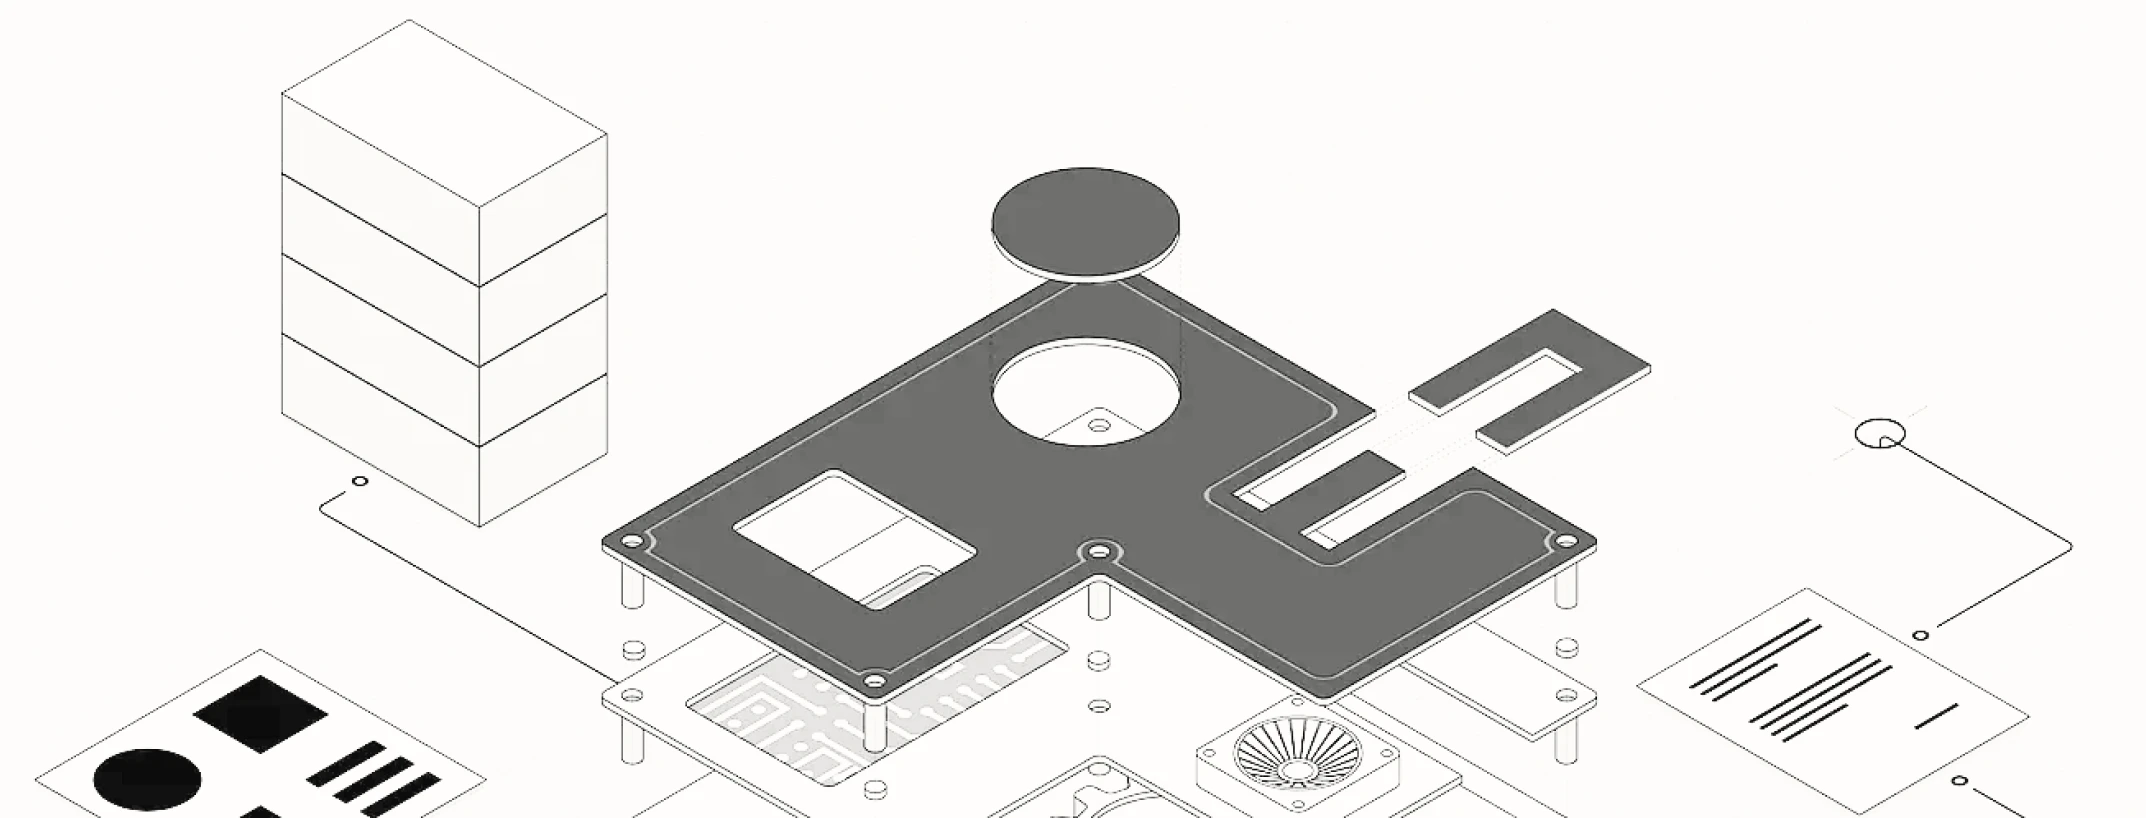
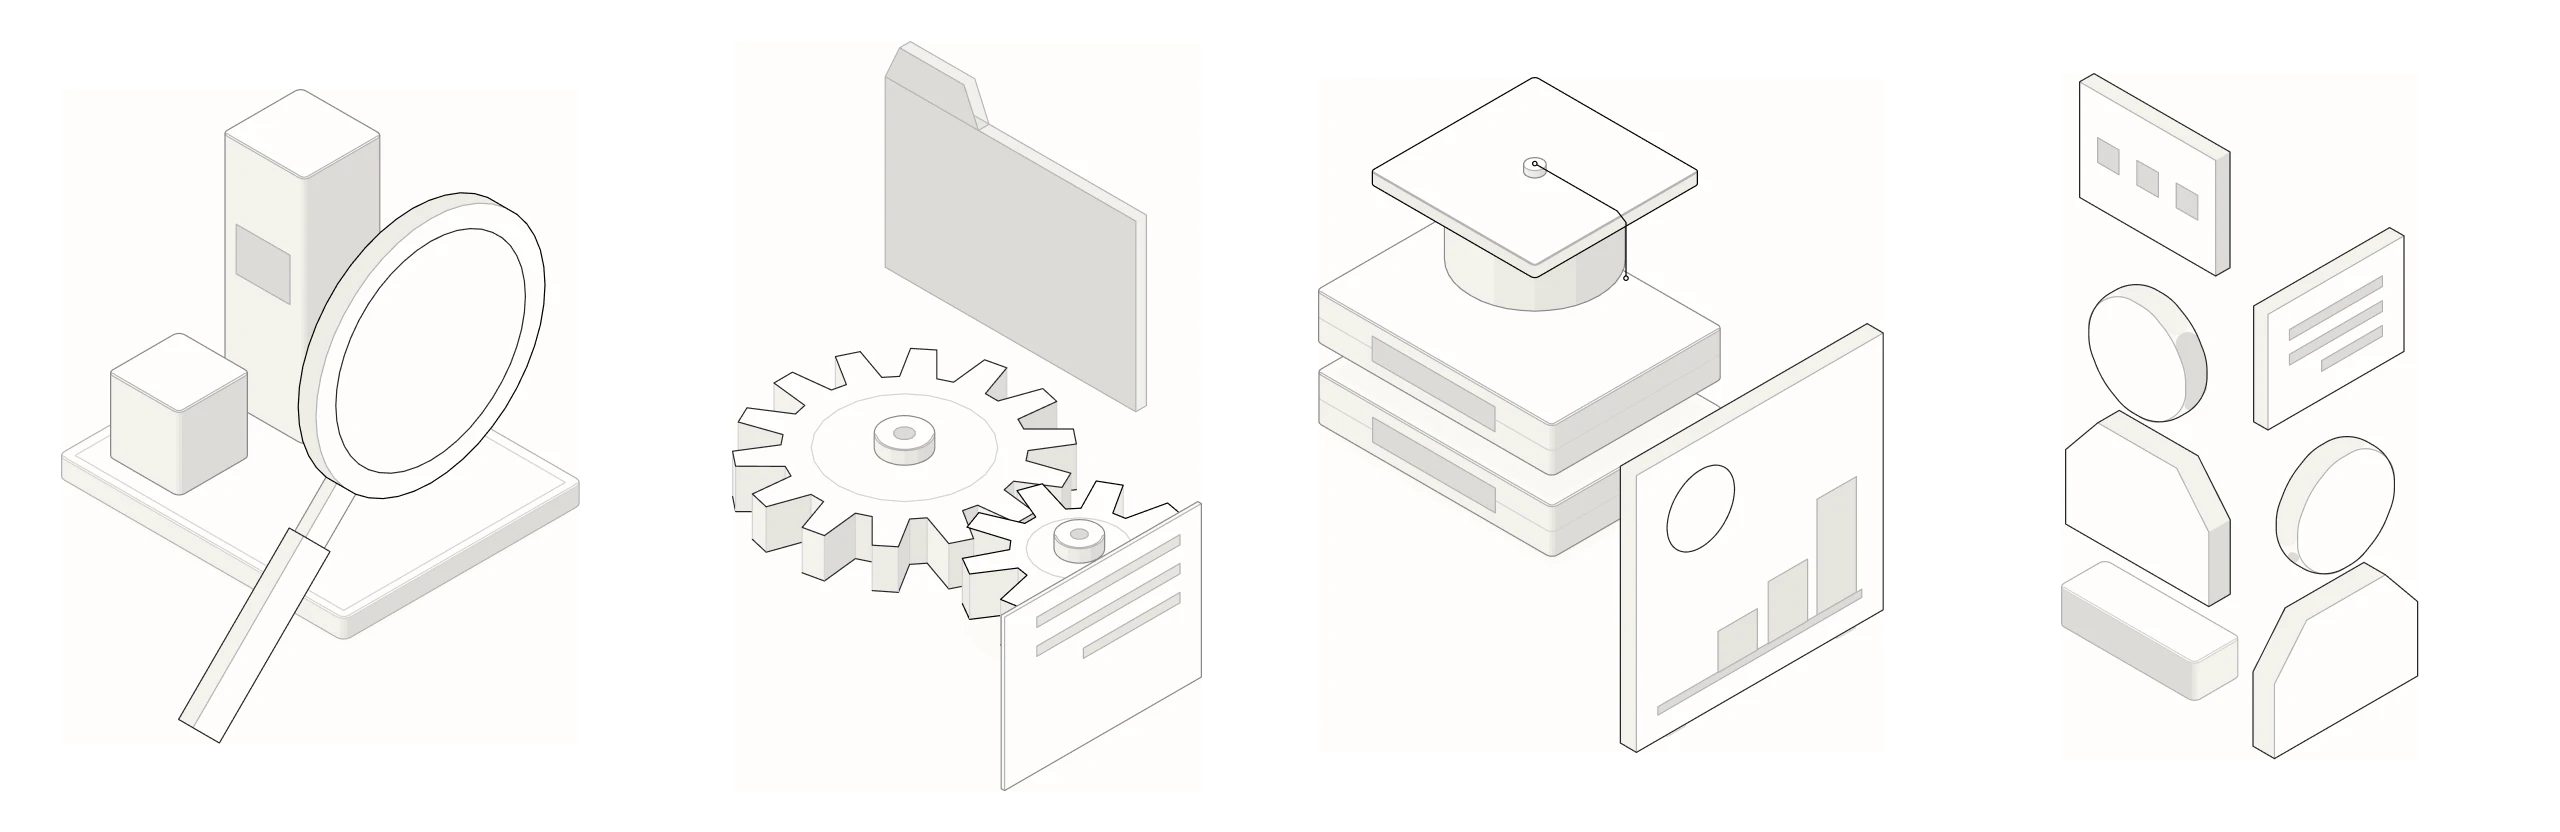
feat(web): use the new approach illustrations from Figma
The designer added step illustrations to Theory of Change (1056:29931, 5 cells of 256x372) and to the Services How We Work steps (1060:47737, 4 cells of 320x416). Each is exported at 2x and composed into one row image, so the illustration now spans the whole image row and scales with it. Theory of Change gets a local asset and scrolls sideways on mobile like Figma 1056:36687; the Services seed asset is replaced. The IMG-PLACEHOLDER text is gone. Figma has no prototype interactions on these illustrations.

diff --git a/web/src/data/services.ts b/web/src/data/services.ts
@@ -2,14 +2,7 @@ import type { ImageMetadata } from 'astro'
 import type { SvgComponent } from 'astro/types'
 import type { FrameTone, PartnerTag } from '../components/cards/types'
 import type { Locale } from '../i18n/config'
-import {
-  findAll,
-  findGlobal,
-  required,
-  texts,
-  type Doc,
-  type GlobalDoc,
-} from '../lib/cms'
+import { findAll, findGlobal, required, texts, type Doc, type GlobalDoc } from '../lib/cms'
 import { altOf, icon, image, optionalImage } from '../lib/media'
 import { partnerTag, projectPeriod } from './projects'
 import { routes } from './routes'
@@ -57,7 +50,6 @@ export interface ApproachStep {
 
 export interface Approach {
   illustration: ImageMetadata
-  placeholder: string
   steps: ApproachStep[]
 }
 
@@ -128,7 +120,6 @@ type PageDoc = GlobalDoc<'services-page'>
 type Rows = { text: string }[] | null | undefined
 
 const introId = 'services'
-const stepPlaceholder = 'IMG-PLACEHOLDER'
 const valueColumns = { '5': 5, '6': 6 } as const
 
 const optionalTexts = (rows: Rows): string[] =>
@@ -248,7 +239,6 @@ const shared = (page: PageDoc): ServiceShared => ({
   eyebrow: { label: page.detailEyebrow, mobile: true },
   approach: {
     illustration: image(page.approach.illustration, 'services page approach illustration'),
-    placeholder: stepPlaceholder,
     steps: page.approach.steps.map((step, index) => ({
       number: String(index + 1).padStart(2, '0'),
       title: step.title,

diff --git a/web/src/data/theory-of-change.ts b/web/src/data/theory-of-change.ts
@@ -17,7 +17,6 @@ export interface SceneCaption {
 type Caption = GlobalDoc<'theory-of-change-page'>['scene']['challenge']
 
 const sceneId = 'theory'
-const approachPlaceholder = 'IMG-PLACEHOLDER'
 
 const toCaption = (caption: Caption, what: string): SceneCaption => {
   const details = texts(caption.details, `${what} details`)
@@ -56,7 +55,6 @@ export const loadTheoryPage = async (locale: Locale) => {
       mobileTag: page.approach.mobileTag,
       title: page.approach.title,
       subline: page.approach.subline,
-      placeholder: approachPlaceholder,
       steps: required(page.approach.steps, 'theory of change approach steps').map(
         (step, index) => ({
           number: String(index + 1).padStart(2, '0'),
